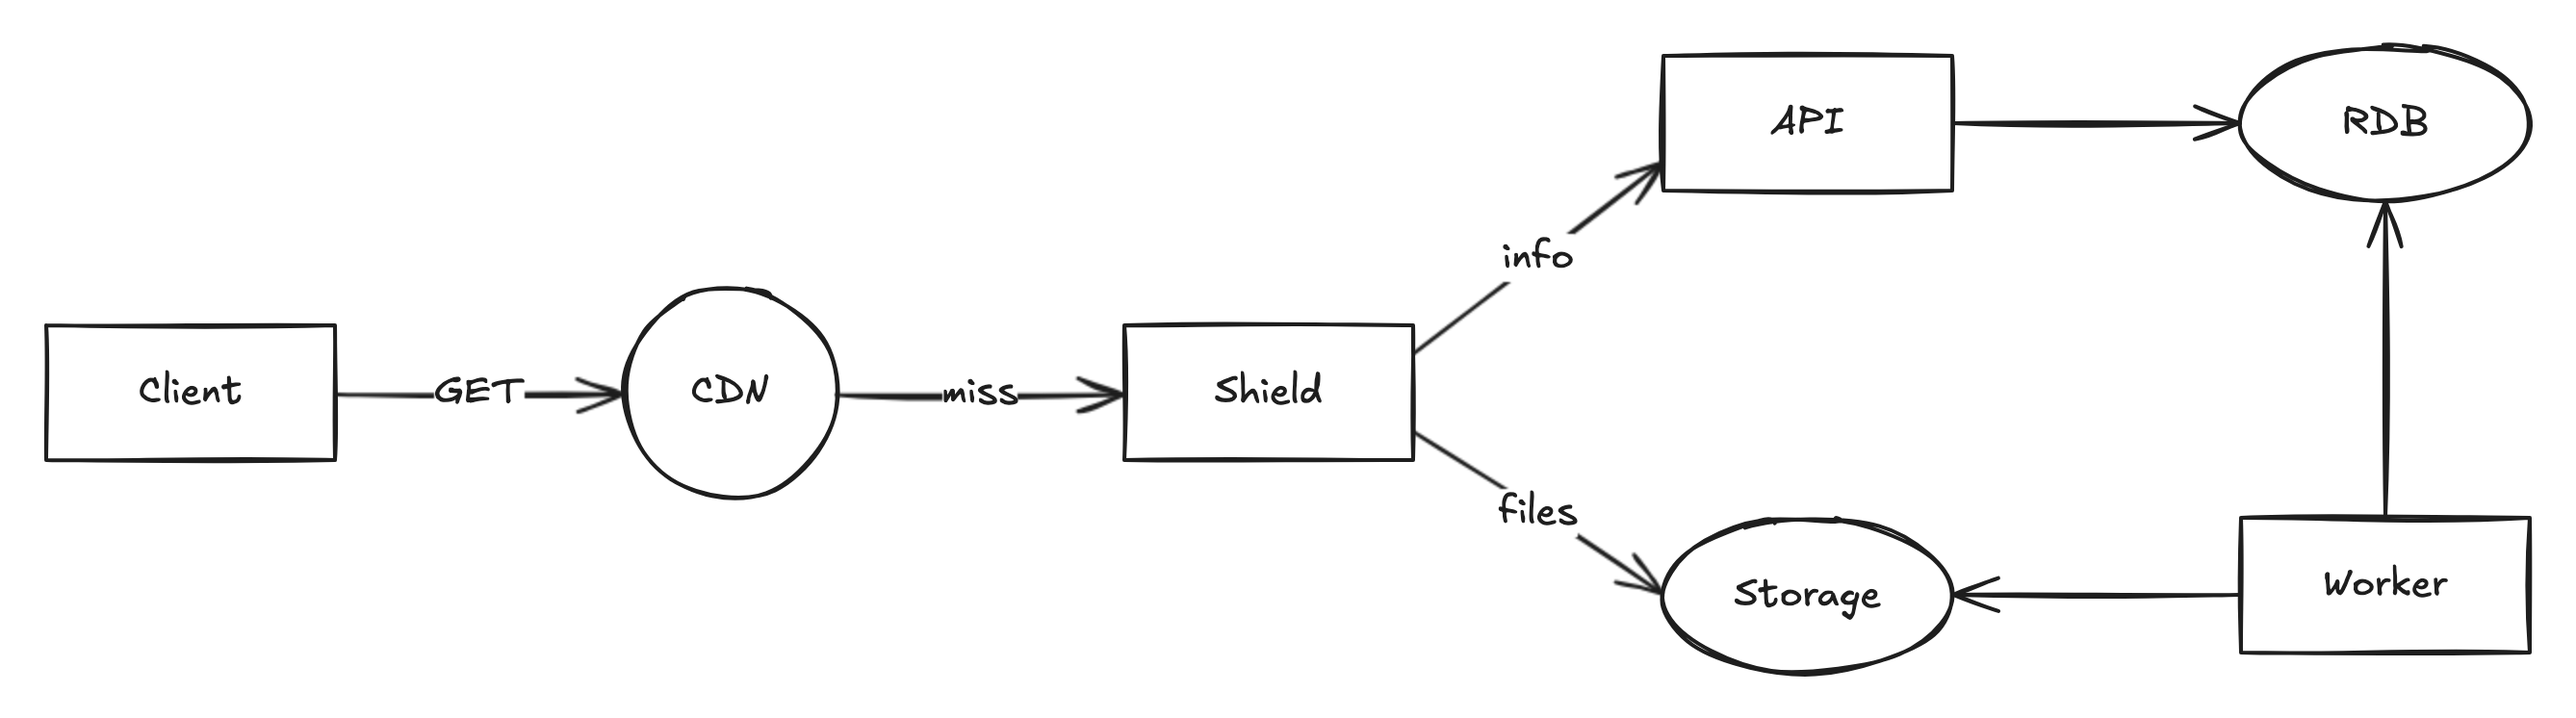
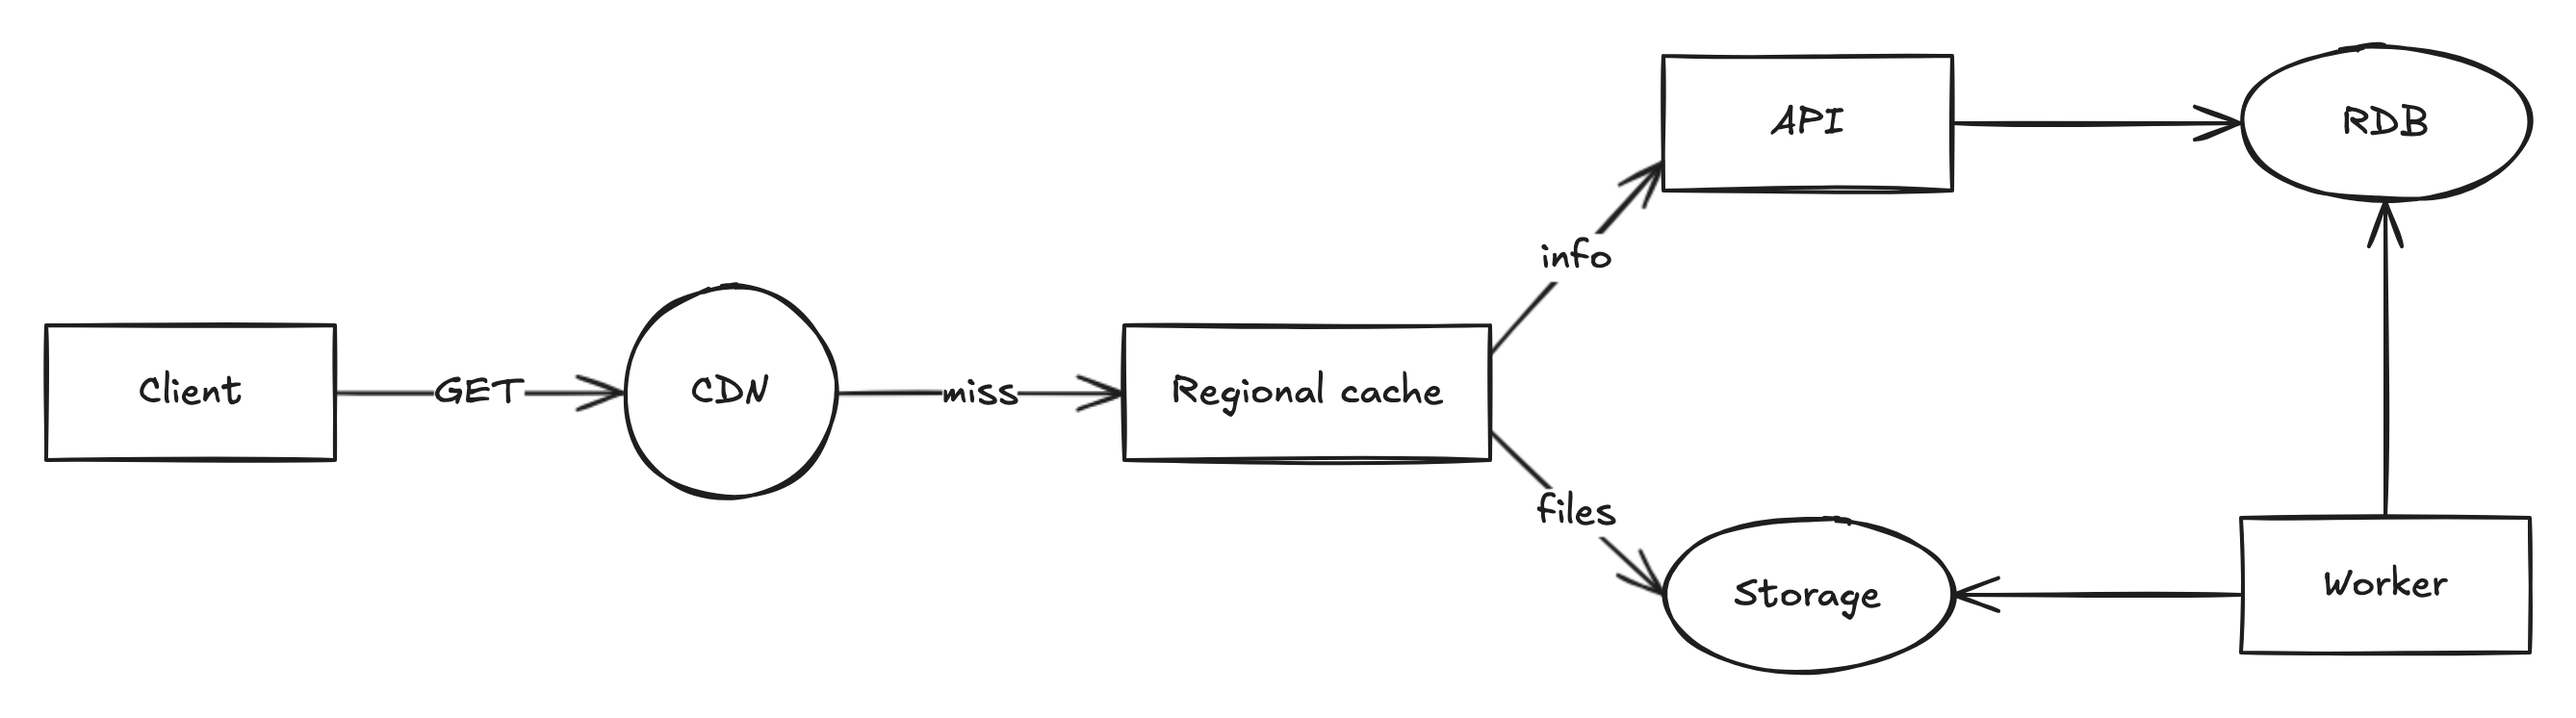
docs: 지역 중간 캐시 용어를 Shield에서 Regional cache로 바로잡는다
README와 단계 4 그림의 "Shield"는 지역마다 두는 중간층인데,
업계에서 shield는 원본 근처 한 곳의 상위층을 뜻해 혼동된다.
AWS Regional Edge Cache·Origin Shield, Fastly, Cloudflare, Akamai
공식 문서를 출처로 달고 ADR-0006에 용어 설명을 추가한다.

diff --git a/README.md b/README.md
@@ -123,7 +123,7 @@
 | 세그먼트 | 재생을 위해 변환 결과를 4초 단위로 자른 조각 |
 | 매니페스트 | 어떤 화질이 있고 각 세그먼트가 어디 있는지 적은 목록 파일 |
 | CDN | 전 세계 여러 지점에 파일 사본을 두고 가까운 곳에서 내주는 캐시 네트워크 |
-| Shield | CDN 지점들과 원본(한국 Storage) 사이에 지역마다 하나씩 두는 중간 캐시. 여러 지점의 캐시 미스를 모아 원본까지 가는 요청을 줄인다 |
+| Regional cache | CDN 지점들과 원본(한국 Storage) 사이에 지역마다 두는 중간 캐시. 같은 지역 지점들의 캐시 미스를 모아 원본까지 가는 요청을 줄인다. 계층형 캐시(tiered caching)의 중간층이며 AWS CloudFront의 [Regional Edge Cache](https://docs.aws.amazon.com/AmazonCloudFront/latest/DeveloperGuide/HowCloudFrontWorks.html#CloudFrontRegionaledgecaches)에 해당한다 |
 
 그림에서 사각형은 실행되는 구성요소, 타원은 저장소, 원은 CDN입니다.
 
@@ -239,13 +239,13 @@
 
 **필요한 것:** 한국에서 올린 영상을 브라질에서 볼 때도 재생 시작이 기준 네트워크 p95 2초, 취약 네트워크 p95 4초 안에 들어와야 한다(NFR-2).
 
-![단계 4: Client는 CDN에서 받고, 없으면 중간 캐시를 거쳐 한국의 API와 Storage에서 가져옴](excalidraw/exports/step4-global.svg)
+![단계 4: Client는 CDN에서 받고, 없으면 지역 중간 캐시(Regional cache)를 거쳐 한국의 API와 Storage에서 가져옴](excalidraw/exports/step4-global.svg)
 
 **이전 구조의 한계:** 모든 것이 한국 리전에 있으면 브라질에서 한 번 왕복하는 데 약 350~600ms가 걸린다. 서울–상파울루 지역 간 왕복을 약 300ms로 가정했고, 여기에 접근 네트워크 왕복이 더해진다. 재생 시작까지 왕복이 다섯 번쯤 필요하니 계산상 기준 네트워크 약 2.0초, 취약 네트워크 약 4.9초가 걸려 목표를 넘는다.
 
 **흐름**
 
-1. **영상 파일(매니페스트·세그먼트):** Client는 가까운 CDN 지점에서 받는다. 지점에 없으면 지역 중간 캐시(Shield, 예: 남미)에서, 거기에도 없으면 한국 Storage에서 가져온다. Shield가 없으면 상파울루·리우 등 남미 지점마다 각자 한국까지 가지만, Shield가 있으면 그 지역에서 한국까지 가는 요청은 영상 파일당 대략 한 번으로 줄어든다. 그 지역의 첫 시청자만 잠시 느리고, 다음 시청자부터는 가까운 곳에서 받는다.
+1. **영상 파일(매니페스트·세그먼트):** Client는 가까운 CDN 지점에서 받는다. 지점에 없으면 지역 중간 캐시(Regional cache, 예: 남미)에서, 거기에도 없으면 한국 Storage에서 가져온다. 중간 캐시가 없으면 상파울루·리우 등 남미 지점마다 각자 한국까지 가지만, 있으면 그 지역에서 한국까지 가는 요청은 영상 파일당 대략 한 번으로 줄어든다. 그 지역의 첫 시청자만 잠시 느리고, 다음 시청자부터는 가까운 곳에서 받는다.
 2. **선택적 미리 넣기(push):** 구독자가 많은 채널의 새 영상이나 공개 직후 요청이 빠르게 느는 영상은 첫 세그먼트 몇 개를 CDN에 미리 넣는다. 이미 재생 수가 많아진 뒤에는 이미 캐시돼 있어 효과가 없으므로, 몰리기 **전의** 신호로 판단한다.
 3. **재생 정보:** 공개 영상의 재생 정보는 누구에게나 같다. 그래서 CDN이 몇 초 동안 캐시한다. 응답을 합쳐 왕복 횟수도 줄인다.
 
@@ -258,6 +258,8 @@
 | 재생 정보 ("지금 최신은 vN") | 바뀜 | 몇 초 |
 
 같은 매니페스트 URL을 덮어쓰면 수백 곳의 CDN 지점은 그 변경을 알지 못한다. 그래서 오래된 목록(예: 360p만 있는 목록)을 계속 내주게 된다. 버전 경로를 쓰면 짧게 캐시할 곳이 재생 정보 하나로 줄어든다.
+
+> **용어 주의:** 여기서 말하는 지역 중간 캐시는 원본 앞에 한 곳만 두는 "shield"와 다르다. AWS의 [Origin Shield](https://docs.aws.amazon.com/AmazonCloudFront/latest/DeveloperGuide/origin-shield.html), Fastly의 [Shielding](https://www.fastly.com/documentation/guides/concepts/shielding/), Cloudflare [Tiered Cache](https://developers.cloudflare.com/cache/how-to/tiered-cache/)의 상위층, Akamai [Tiered Distribution](https://techdocs.akamai.com/property-mgr/reference/latest-tiered-distribution)의 부모 서버는 모두 원본 근처에서 전 세계 미스를 한 번 더 모으는 층이다. 이 설계는 아직 그 층을 두지 않았고, 원본 부하가 문제가 될 때 검토한다.
 
 **계산으로 본 효과**
 

diff --git a/docs/interview/progress.md b/docs/interview/progress.md
@@ -136,7 +136,7 @@
 
 - 사용자가 push 기준을 예측 신호(채널 구독자 수 + 공개 직후 요청 증가 속도, 첫 세그먼트 몇 개)로, 매니페스트를 버전 경로로 확정했다. 재생 정보·매니페스트·세그먼트의 세 층 개념을 확인했다. ADR-0006에 기록.
 
-- 사용자 질문(2026-10-07): README의 Shield 개념과 출처. 공식 문서 확인 결과 AWS는 지역 중간층(Regional Edge Cache)과 원본 앞 한 층(Origin Shield)을 구분하고, Fastly·Cloudflare·Akamai의 shield·상위층은 원본 근처 한 곳을 뜻한다. README의 "남미 Shield"는 Regional Edge Cache에 해당하므로 용어를 "Regional cache(지역 중간 캐시)"로 바꾸고 출처를 다는 수정을 제안함(사용자 결정 대기). 출처: https://docs.aws.amazon.com/AmazonCloudFront/latest/DeveloperGuide/HowCloudFrontWorks.html , https://docs.aws.amazon.com/AmazonCloudFront/latest/DeveloperGuide/origin-shield.html , https://www.fastly.com/documentation/guides/concepts/shielding/ , https://developers.cloudflare.com/cache/how-to/tiered-cache/ , https://techdocs.akamai.com/property-mgr/reference/latest-tiered-distribution
+- 사용자 질문(2026-10-07): README의 Shield 개념과 출처. 공식 문서 확인 결과 AWS는 지역 중간층(Regional Edge Cache)과 원본 앞 한 층(Origin Shield)을 구분하고, Fastly·Cloudflare·Akamai의 shield·상위층은 원본 근처 한 곳을 뜻한다. README의 "남미 Shield"는 Regional Edge Cache에 해당하므로 사용자 결정으로 용어를 "Regional cache(지역 중간 캐시)"로 바꾸고 README·ADR-0006·단계 4 그림에 출처와 함께 반영했다(2026-10-07). 출처: https://docs.aws.amazon.com/AmazonCloudFront/latest/DeveloperGuide/HowCloudFrontWorks.html , https://docs.aws.amazon.com/AmazonCloudFront/latest/DeveloperGuide/origin-shield.html , https://www.fastly.com/documentation/guides/concepts/shielding/ , https://developers.cloudflare.com/cache/how-to/tiered-cache/ , https://techdocs.akamai.com/property-mgr/reference/latest-tiered-distribution
 
 ## 지금 대기 중인 질문
 

diff --git a/docs/adr/0006-global-delivery.md b/docs/adr/0006-global-delivery.md
@@ -61,6 +61,7 @@
 ## 6. 검증과 남은 불확실성
 
 - 계산의 지역 간 RTT, 지점 추가 RTT, 순차 왕복 횟수는 가정이며 측정하지 않았다.
+- 용어: 여기서 "중간 캐시"는 지역마다 두는 계층형 캐시의 중간층으로, AWS CloudFront Regional Edge Cache에 해당한다([문서](https://docs.aws.amazon.com/AmazonCloudFront/latest/DeveloperGuide/HowCloudFrontWorks.html#CloudFrontRegionaledgecaches)). 원본 근처 한 곳에 미스를 모으는 Origin Shield([문서](https://docs.aws.amazon.com/AmazonCloudFront/latest/DeveloperGuide/origin-shield.html))나 Fastly Shielding과는 다른 층이며, 이 결정에는 포함하지 않았다. 2026-10-07 용어를 Shield에서 Regional cache로 바로잡았다(결정 내용 변경 아님).
 - 중간 캐시가 있을 때 캐시 미스의 실제 재생 시작 시간과 지역별 캐시 적중률은 측정해야 한다.
 - 재생 정보 캐시 수명(몇 초)과 push 기준값(구독자 수, 증가 속도 임계치), push할 세그먼트 수는 정책값으로 남아 있다.
 - CDN 단가를 확인하지 않아 비용 비교는 하지 않았다.
